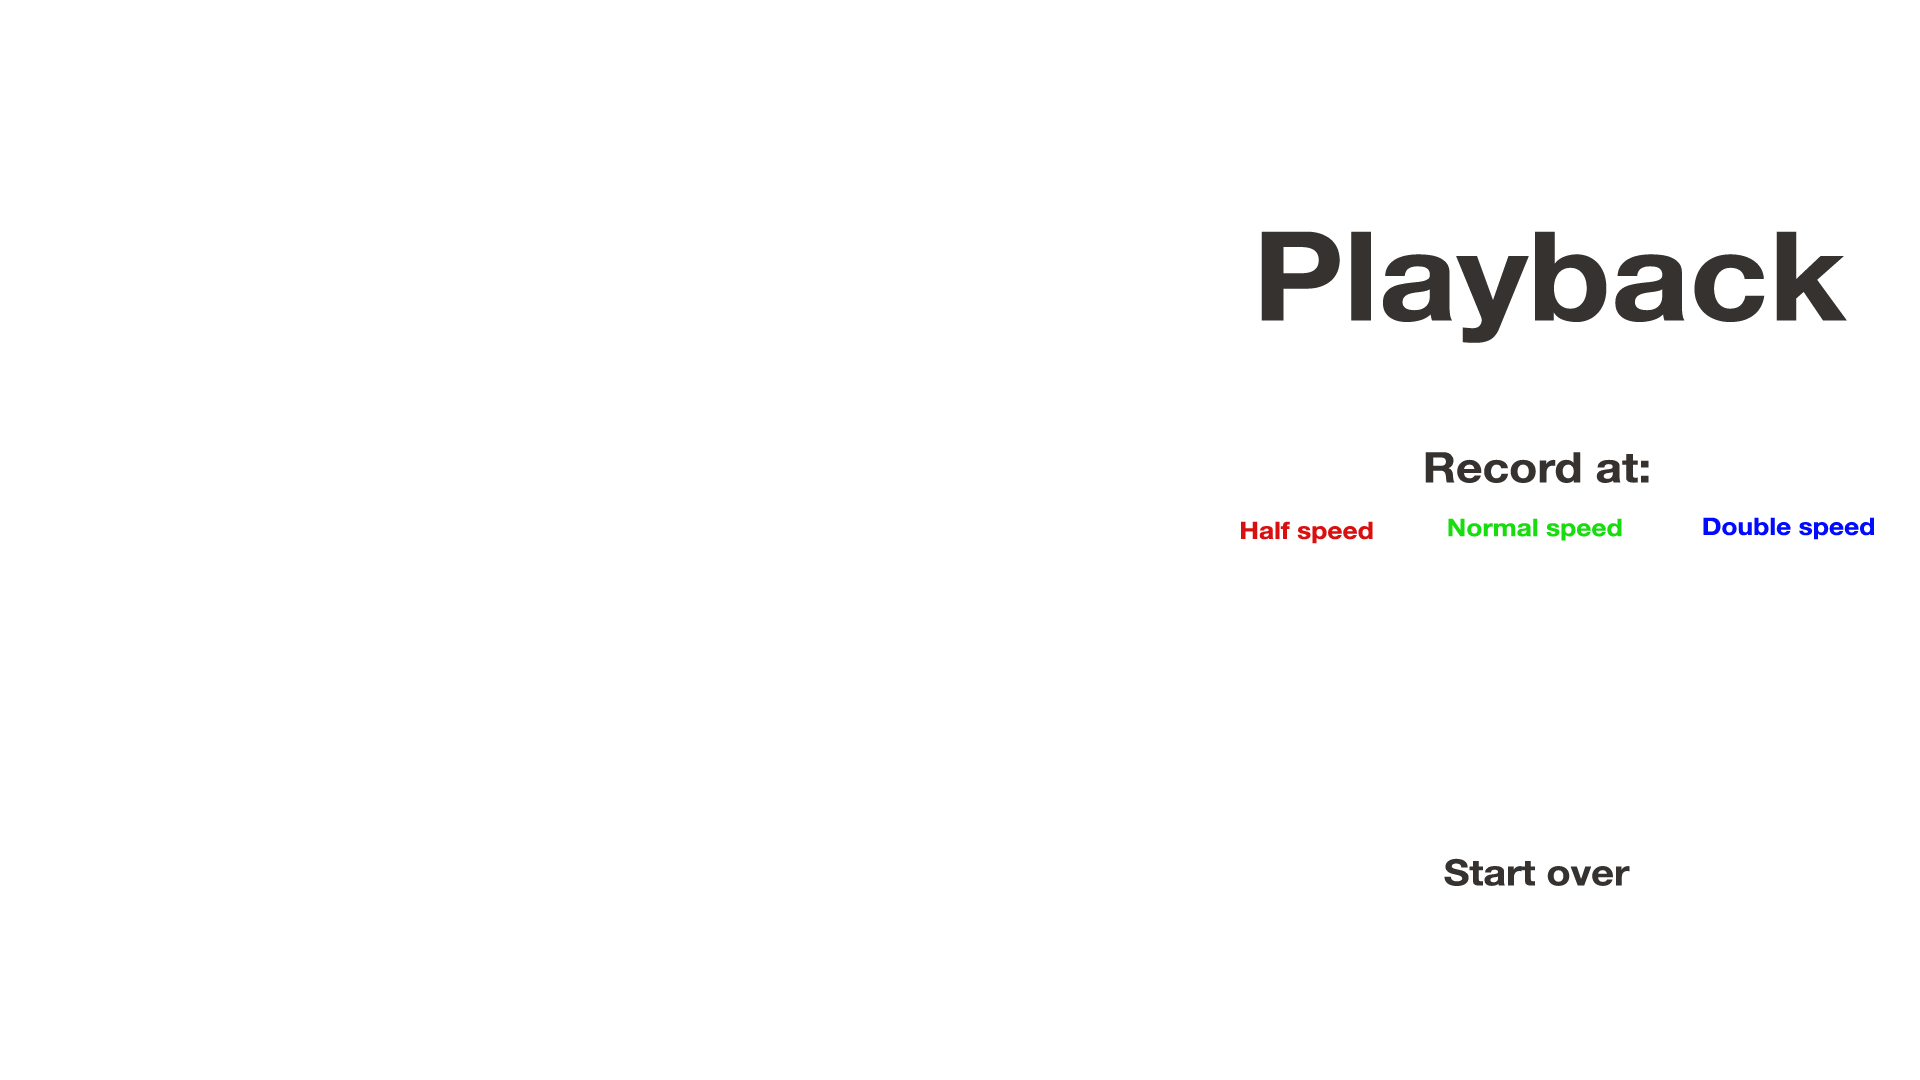
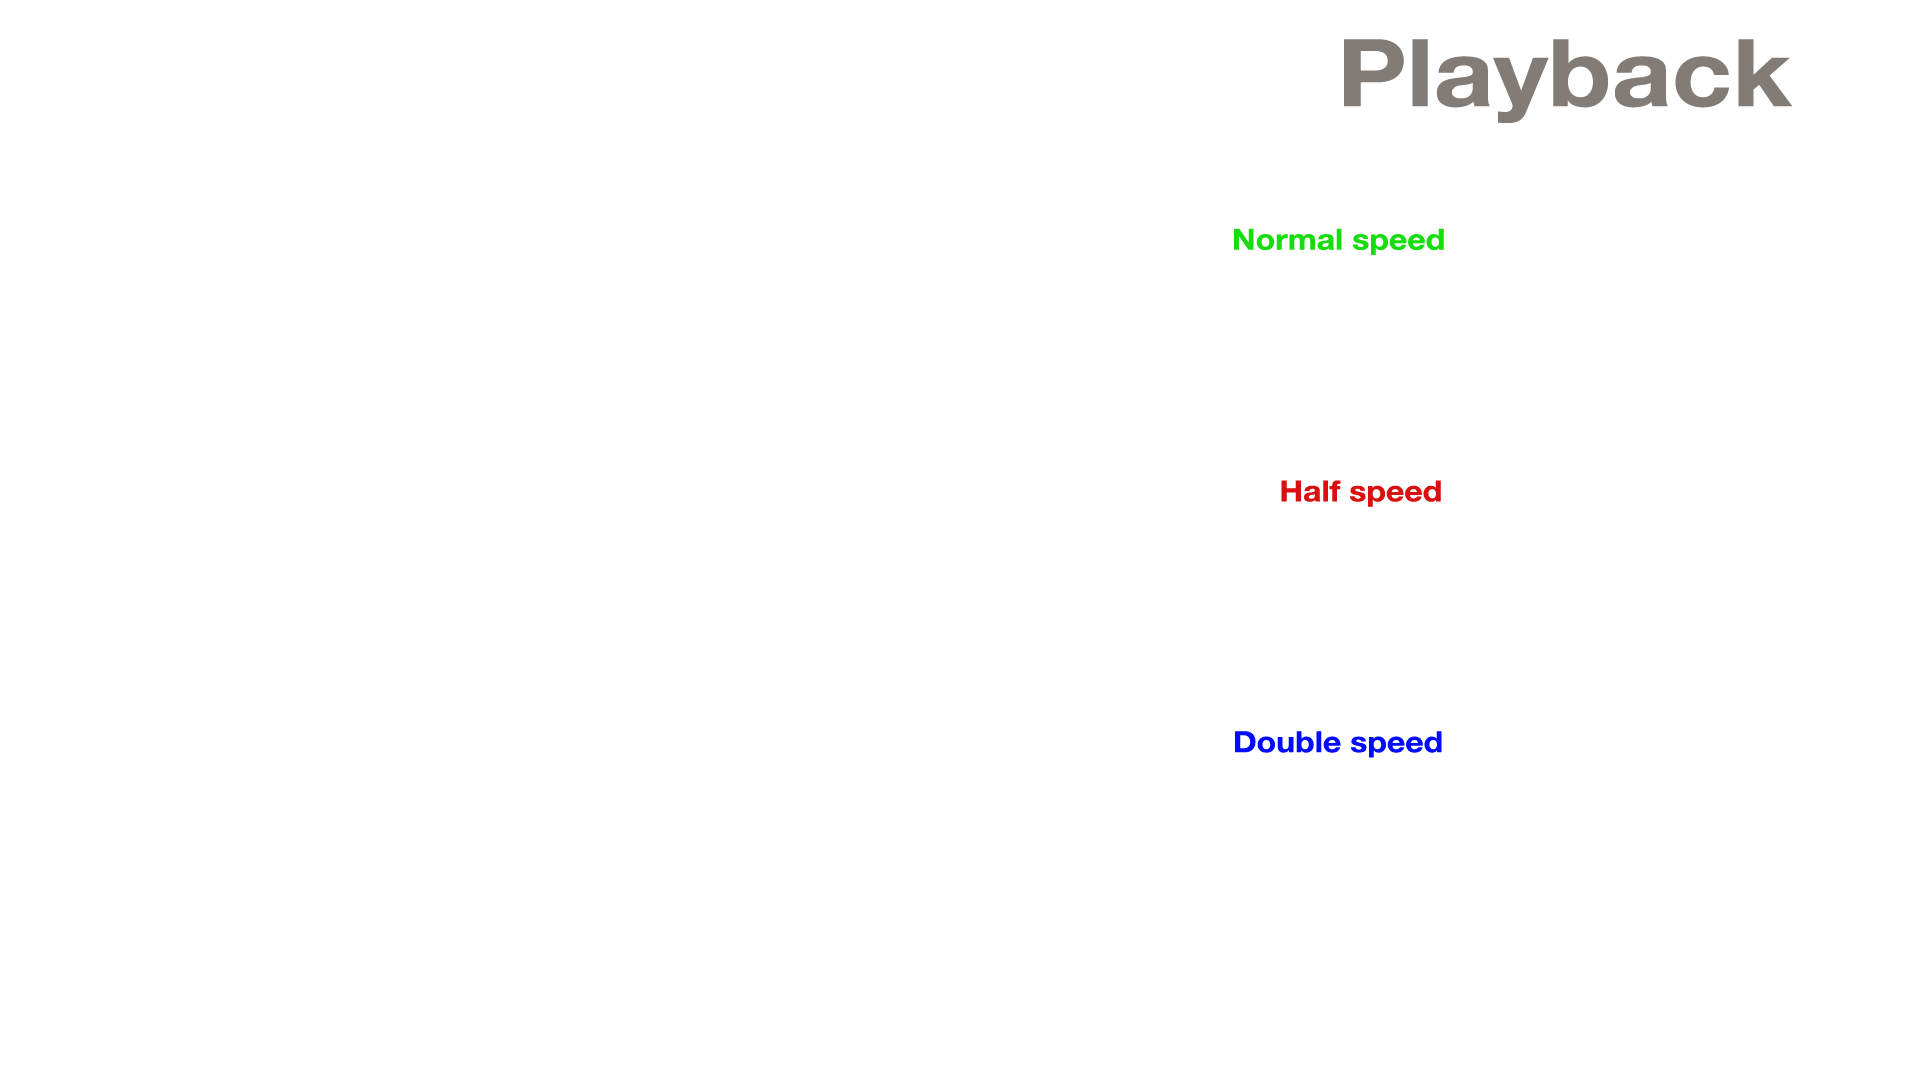
Added video playback buttons

diff --git a/src/ofApp.cpp b/src/ofApp.cpp
@@ -121,7 +121,6 @@ void ofApp::update(){
             
             countdown--;
             isNewBeat = false;
-            ofLogNotice("Countdown beat:" + ofToString(countdown));
             layout.setState("countdown", ofToString(countdown));
             
             if (countdown <= 0) {
@@ -148,32 +147,41 @@ void ofApp::draw(){
     //Draw Cams/Vids
     
     ofPushMatrix();
-    ofTranslate(1280, 0, 0);
+    ofTranslate(1280, 0);
     ofScale(-1, 1); //**--> Drawing is MIRRORED
     
     if (appState == STATE_PLAYBACK){
-        
-        session.drawVids();
-
+        session.drawFeatureVids();
     } else {
-        camRaw.draw(0,0,1280,960);
+        camRaw.draw(0,0,1280,720);
     }
-    
-    #ifdef DEBUG_HELPERS
-        ofPushMatrix();
-        ofTranslate(0, 720);
-        ofSetColor(255,100,0);
-        float timeSinceBeat = ofGetElapsedTimeMillis() - prevBeatTime;
-        ofCircle(750, 250, 50 - (timeSinceBeat * 0.025));
-        ofDrawBitmapString(ofToString(ofGetFrameRate())+"fps", 20, 30);
-        ofPopMatrix();
-    #endif
-    
+
     ofPopMatrix(); //**--> Drawing is UN-MIRRORED
     
     //Draw layout
     ofSetColor(255,255,255);
     layout.draw();
+    
+    if (appState == STATE_PLAYBACK){
+        
+        ofPushMatrix();
+        ofTranslate(1810, 0);
+        ofScale(-1, 1); //**--> Drawing is MIRRORED
+        session.drawButtonVids();
+        ofPopMatrix(); //**--> Drawing is UN-MIRRORED
+        
+    }
+    
+    #ifdef DEBUG_HELPERS
+        ofPushMatrix();
+        ofTranslate(0, 1000);
+        ofSetColor(255,100,0);
+        float timeSinceBeat = ofGetElapsedTimeMillis() - prevBeatTime;
+        ofCircle(200, 0, 50 - (timeSinceBeat * 0.025));
+        ofDrawBitmapString(ofToString(ofGetFrameRate())+"fps", 20, 30);
+        ofPopMatrix();
+        ofSetColor(255,255,255);
+    #endif
     
 }
 
@@ -202,28 +210,22 @@ void ofApp::mousePressed(int x, int y, int button){
     
     string btn = layout.getSelected(x, y);
     
-    ofLogNotice("btnmsg: "+btn);
-    
     if (btn.substr(0,11) == "chose_dance") {
         string dance = btn.substr(12);
-        ofLogNotice("Dance chosen: "+dance);
         layout.setView(DMLayout::VIEW_CHOOSE_MUSIC);
     }
     
     if (btn.substr(0,13) == "preview_music") {
         string music = btn.substr(14);
-        ofLogNotice("Preview music: "+music);
         jukebox.switchSong(music);
         jukebox.play();
     }
     
     if (btn.substr(0,11) == "chose_music") {
         string music = btn.substr(12);
-        ofLogNotice("Music chosen: "+music);
-        
         jukebox.switchSong(music);
         
-        //Start initial dance
+        //Start first dance
         currentSpeed = 1;
         startDanceCountdown();
     }
@@ -232,8 +234,6 @@ void ofApp::mousePressed(int x, int y, int button){
         
         string speed = btn.substr(12);
         currentSpeed = ofToFloat(speed);
-        ofLogNotice("Speed chosen: "+speed);
-        
         startDanceCountdown();
         
     }
@@ -249,15 +249,13 @@ void ofApp::mousePressed(int x, int y, int button){
         
         //delete all temp files
         clearFiles();
+        
+        //clear session data
         session.clear();
         
         //reset base time
         ofResetElapsedTimeCounter();
         
-    }
-    
-    if (btn == "toggle_overlay"){
-        showOverlay = !showOverlay;
     }
     
 }
@@ -291,10 +289,18 @@ void ofApp::videoSaved(ofVideoSavedEventArgs& e){
 void ofApp::clearFiles() {
     
     ofDirectory dir;
+    dir.allowExt("mov");
     dir.listDir("temp");
     vector< ofFile > files = dir.getFiles();
+    
     for (int i = 0; i<files.size(); i++) {
-        files[i].remove();
+        
+        if (files[i].exists()) {
+            files[i].remove();
+        } else{
+            ofLogWarning("Trying to delete non-existant file: " + ofToString(files[i].getBaseName()));
+        }
+        
     }
 
 }
@@ -308,6 +314,9 @@ void ofApp::Session::saveData(float speed, string vid){
         slowPlayer.play();
         slowPlayer.setSpeed(2);
         slowPlayer.setLoopState(OF_LOOP_NONE);
+        slowBtnPlayer.close();
+        slowBtnPlayer.loadMovie(slowVid);
+        slowBtnPlayer.play();
     } else if (speed == 1) {
         normVid = vid;
         normPlayer.close();
@@ -315,6 +324,9 @@ void ofApp::Session::saveData(float speed, string vid){
         normPlayer.play();
         normPlayer.setSpeed(1);
         normPlayer.setLoopState(OF_LOOP_NONE);
+        normBtnPlayer.close();
+        normBtnPlayer.loadMovie(normVid);
+        normBtnPlayer.play();
     } else if (speed == 2) {
         fastVid = vid;
         fastPlayer.close();
@@ -322,6 +334,9 @@ void ofApp::Session::saveData(float speed, string vid){
         fastPlayer.play();
         fastPlayer.setSpeed(0.5);
         fastPlayer.setLoopState(OF_LOOP_NONE);
+        fastBtnPlayer.close();
+        fastBtnPlayer.loadMovie(fastVid);
+        fastBtnPlayer.play();
     } else {
         ofLogError("Session") << "Can not save session. Unrecognized speed: " << speed;
     }
@@ -332,40 +347,68 @@ void ofApp::Session::updateVids(){
     
     if(!normVid.empty()) {
         normPlayer.update();
+        normBtnPlayer.update();
     }
     
     if(!slowVid.empty()) {
         slowPlayer.update();
+        slowBtnPlayer.update();
     }
     
     if(!fastVid.empty()) {
         fastPlayer.update();
+        fastBtnPlayer.update();
     }
     
 }
 
 //--------------------------------------------------------------
-void ofApp::Session::drawVids(){
+void ofApp::Session::drawFeatureVids(){
     
     if(!normVid.empty()) {
         ofSetColor(255,255,255,255);
-        normPlayer.draw(0,0,1280,960);
+        normPlayer.draw(0,0,1280,720);
     }
     
-//    ofEnableBlendMode(OF_BLENDMODE_ADD);
-    
     if(!slowVid.empty()) {
-        ofSetColor(255,200,200,85);
-        slowPlayer.draw(0,0,1280,960);
+        if(fastVid.empty()) {
+            ofSetColor(255,255,255,127);
+        } else {
+            ofSetColor(255,255,255,85);
+        }
+        slowPlayer.draw(0,0,1280,720);
     }
     
     if(!fastVid.empty()) {
-        ofSetColor(200,200,255,85);
-        fastPlayer.draw(0,0,1280,960);
+        if(slowVid.empty()) {
+            ofSetColor(255,255,255,127);
+        } else {
+            ofSetColor(255,255,255,85);
+        }
+        fastPlayer.draw(0,0,1280,720);
+    }
+
+    ofSetColor(255,255,255);
+    
+}
+
+//--------------------------------------------------------------
+void ofApp::Session::drawButtonVids(){
+    
+    ofSetColor(255,255,255,255);
+    
+    if(!normVid.empty()) {
+        normBtnPlayer.draw(0,180,1280/4,720/4);
     }
     
-//    ofDisableBlendMode();
-    ofSetColor(255,255,255);
+    if(!slowVid.empty()) {
+        slowBtnPlayer.draw(0,421,1280/4,720/4);
+    }
+    
+    if(!fastVid.empty()) {
+        fastBtnPlayer.draw(0,662,1280/4,720/4);
+    }
+    
 }
 
 //--------------------------------------------------------------
@@ -405,9 +448,29 @@ int ofApp::Session::getColor(float speed){
 
 //--------------------------------------------------------------
 void ofApp::Session::clear(){
+    
     slowVid = normVid = fastVid = "";
+    
+    //Note: Due to an OF bug, you cannot close an
+    //ofVideoPlayer when current position is 0 so we
+    //set all player positions to non-zero before closing.
+    //see http://goo.gl/Vz8zdx
+    
+    slowPlayer.setPosition(0.5);
+    normPlayer.setPosition(0.5);
+    fastPlayer.setPosition(0.5);
+    
+    slowBtnPlayer.setPosition(0.5);
+    normBtnPlayer.setPosition(0.5);
+    fastBtnPlayer.setPosition(0.5);
+    
     slowPlayer.close();
     normPlayer.close();
     fastPlayer.close();
+    
+    slowBtnPlayer.close();
+    normBtnPlayer.close();
+    fastBtnPlayer.close();
+    
 }
 

diff --git a/src/ofApp.h b/src/ofApp.h
@@ -5,7 +5,7 @@
 #include "Jukebox.h"
 #include "DMLayout.h"
 
-//#define DEBUG_HELPERS		// uncomment to draw debug helpers
+#define DEBUG_HELPERS		// uncomment to draw debug helpers
 
 using namespace ofxSimpleLayout;
 
@@ -45,9 +45,13 @@ class ofApp : public ofBaseApp{
             ofVideoPlayer slowPlayer;
             ofVideoPlayer normPlayer;
             ofVideoPlayer fastPlayer;
+            ofVideoPlayer slowBtnPlayer;
+            ofVideoPlayer normBtnPlayer;
+            ofVideoPlayer fastBtnPlayer;
             void saveData(float speed, string vid);
             void updateVids();
-            void drawVids();
+            void drawFeatureVids();
+            void drawButtonVids();
             void restartVids();
             int getColor(float speed);
             void clear();

diff --git a/src/DMLayout.cpp b/src/DMLayout.cpp
@@ -49,12 +49,10 @@ void DMLayout::setupViews(){
     //Playback View
     image("sidebar_bg");
     image("txtPlayback");
-    button("btnHalfSpeed", 1190, 515, "start_dance_0.5");
-    button("btnNormalSpeed", 1440, 515, "start_dance_1");
-    button("btnDoubleSpeed", 1690, 515, "start_dance_2");
-    button("btnStartOver", 1440, 750, "start_over");
-//    button("btnOverlayTracking", 1440, 50, "toggle_overlay");
-//    button("btnShowAll", 1400, 50, "show_all");
+    button("btnRecordNow", 1490, 180, "start_dance_1");
+    button("btnRecordNow", 1490, 421, "start_dance_0.5");
+    button("btnRecordNow", 1490, 662, "start_dance_2");
+    button("btnStartOver", 1560, 915, "start_over");
     saveView(VIEW_PLAYBACK);
 
 }
